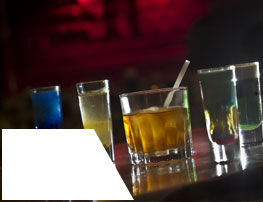
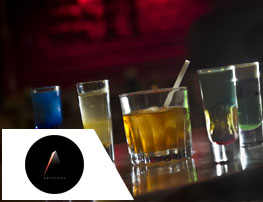
añadido betty, delorean e italianisimmo

Changed region(s): [[0.0913, 0.6535, 0.3346, 0.9802]]

diff --git a/cafes-y-postres-betty.php b/cafes-y-postres-betty.php
@@ -3,10 +3,10 @@
   <head>
     <meta charset="utf-8">
     <meta http-equiv="X-UA-Compatible" content="IE=edge">
-    <title>Menus and Places | Antros Delorean 5 en Chihuahua</title>
+    <title>Menus and Places | Cafés y Postres Betty Cooker en Chihuahua</title>
 
-    <meta name="description" content=".">
-    <meta name="keywords" content="">
+    <meta name="description" content="Betty Cooker es una cocina económica que ha dado servicio a muchos chihuahuenses desde 1991. Se caracteriza por el buen servicio que damos">
+    <meta name="keywords" content="Cafés y postres en chihuahua, Lugares en chihuahua, betty cooker, betty cooker chihuahua, cocina económica, enchiladas, milanesas, sabor de hogar, servicio a domicilio">
     <?php include('modules/head.php'); ?>
   </head>
   <body>
@@ -21,7 +21,7 @@
           <a href="../"><span class="glyphicon glyphicon-circle-arrow-left back">  </span></a>
         </div>
         <div class="col-md-4">
-          <div class="titulo"><h1> <img src="img/icono-tit.png" > Delorean 5 <img src="img/icono-tit.png" > </h1></div>
+          <div class="titulo"><h1> <img src="img/icono-tit.png"> Betty Cooker <img src="img/icono-tit.png" > </h1></div>
         </div>
         <div class="col-md-4">
           <?php include('modules/iconos.php'); ?>
@@ -33,14 +33,14 @@
         <div class="lines"> <img src="img/lines.png" class="img-responsive" ></div>
           <div class="row"> 
             <div class="col-md-12">
-              <img src="img/antros/delorean/delorean.jpg" class="img-responsive" alt="Antro Delorean 5 Chihuahua">
+              <img src="img/cafes-y-postres/betty/betty.jpg" class="img-responsive" alt="Cafetería Betty Cooker Chihuahua">
             </div> <br><br>
         </div> 
       </div> 
       <div class="container">
         <div class="row">
           <div class="col-md-12">
-            <img src="img/antros/delorean/logo.jpg" alt="Logotipo Delorean 5">
+            <img src="img/cafes-y-postres/betty/logo.jpg" alt="Logotipo Betty Cooker">
           </div>
         </div>
       </div>
@@ -48,16 +48,16 @@
         <div class="row">
           <div class="col-md-7 text-rest">
             <h4></h4>
-            <p><span class="titulo-rest"></span> Delorean está en el corazón de esta ciudad; silencioso por fuera, ruidoso por dentro. Al pasar por su peculiar entrada se descubre el diseño innovador y diferente que lleva los sentidos a otro nivel. la música alternativa, moderna y lejos de lo comercial ofrece una noche única. Un concepto interesante con una decoración ecléctica y una barra amplia para servir sus bebidas preparadas exóticamente.</p>
+            <p><span class="titulo-rest"></span> Betty Cooker es una cocina económica que ha dado servicio a muchos chihuahuenses desde 1991. Se caracteriza por el buen servicio que damos, las enchiladas y milanesas, todo con un sabor de hogar para aquellas personas que por falta de tiempo no puedan hacer comida para su hogar o no llevan comida para su trabajo. Cuentan con una gran ventaja para el comensal, que es el servicio a domicilio. Despreocúpate sobre qué comer hoy.</p>
 
-            <p>Delorean is a special spot that hides in the middle of the city. Silent from the outside, noise on the inside. The modern and electronic music, far from commercial, is what makes it different and definitely worth the visit. Decorated in an eclectic way, with a long bar to serve the exotic drinks, this unique place is good option for a good night out.</p>
+            <p>Betty Cooker it's a delicious home-cooked restaurant who have been preparing meals in town since 1991. It's known for their great service, along with the enchiladas and milanesas prepared with the homemade taste for everyone who can't cook at home. Do not worry about what to eat today; they've got home-delivery service.</p>
 
           </div>
           <div class="col-md-5 text-info-1">
             <div class="col-md-6"> <br>
                 <address>
-                <p><span class="info-rest">Teléfono:</span> 614 131.2374 <br><br>
-                   <span class="info-rest">Dirección: </span>Calle 17 No. 5 Col. Centro   <br> Chihuahua, México. <br><br>
+                <p><span class="info-rest">Teléfono:</span> 614 415.0898 <br><br>
+                   <span class="info-rest">Dirección: </span>Ankara No. 2012 Col. Mirador   <br> Chihuahua, México. <br><br>
                    <span class="info-rest">Ubicación:</span>
                    <a href="#"  data-toggle="modal" data-target="#myModal"> Ver ubicación </a>
                     <!-- Modal -->
@@ -81,17 +81,14 @@
               </div>
               <div class="col-md-6 text-info"> <br>
                 <p>
+                  <span class="info-rest">Horario: </span><br>
+                    L - V: 11am a 4pm <br>
+                    S: 11am a 2pm<br>  <br>
 
-                    <span class="info-rest">Ver Menu:</span> <a href="#">Próximamente</a>
-                </p> 
+                    <span class="info-rest">Ver Menu:</span> <a href="#">Próximamente</a> 
               </div>
               <div class="col-md-12">
-                <a href="#" class="element2"  data-toggle="tooltip" data-placement="top" title="Bar"><img src="img/iconos/2.png" alt="bar"></a>
-                <a href="#" class="element3"  data-toggle="tooltip" data-placement="top" title="TV"><img src="img/iconos/3.png" alt="tv"></a>
-                <a href="#" class="element4"  data-toggle="tooltip" data-placement="top" title="Área de fumar"><img src="img/iconos/4.png" alt="area de fumar"></a>
                 <a href="#" class="element6"  data-toggle="tooltip" data-placement="top" title="Estacionamiento"><img src="img/iconos/6.png" alt="estacionamiento"></a>
-                <a href="#" class="element8"  data-toggle="tooltip" data-placement="top" title="Eventos privados"><img src="img/iconos/8.png" alt="eventos privados"></a>
-                <a href="#" class="element10"  data-toggle="tooltip" data-placement="top" title="Reservaciones"><img src="img/iconos/10.png" alt="reservaciones"></a>
               </div>
             </div> 
           </div> <br>

diff --git a/restaurantes-italianisimmo.php b/restaurantes-italianisimmo.php
@@ -5,8 +5,8 @@
     <meta http-equiv="X-UA-Compatible" content="IE=edge">
     <title>Menus and Places | Restaurantes Italianissimmo en Chihuahua</title>
 
-    <meta name="description" content="Conoce algunos de los mejores Restaurantes en Chihuahua, excelentes lugares y platillos que disfrutaras.">
-    <meta name="keywords" content="Restaurantes en chihuahua, restauratnes de chihuahua, comida en chihuahua, revista de restaurantes, quiero comer en chihuahua">
+    <meta name="description" content="Italianisimmo en este restaurante podemos encontrar las deliciosas ensaladas del Chef y Molla Tuscana Dell">
+    <meta name="keywords" content="Restaurantes en chihuahua, Italianisimmo, Italianisimmo chihuahua, ensaladas, ensalada del chef, ensalada molla tuscana dell, lasagna, lasagna di camarone, pasta, pasta fettuccine, pizzas, salsas, cocina italiana, tiramisú">
     <?php include('modules/head.php'); ?>
   </head>
   <body>
@@ -21,7 +21,7 @@
           <a href="../"><span class="glyphicon glyphicon-circle-arrow-left back">  </span></a>
         </div>
         <div class="col-md-4">
-          <div class="titulo"><h1> <img src="img/icono-tit.png" > Italianismo <img src="img/icono-tit.png" > </h1></div>
+          <div class="titulo"><h1> <img src="img/icono-tit.png" > Italianisimmo <img src="img/icono-tit.png" > </h1></div>
         </div>
         <div class="col-md-4">
           <?php include('modules/iconos.php'); ?>
@@ -48,9 +48,9 @@
         <div class="row">
           <div class="col-md-7 text-rest">
             <h4></h4>
-            <p><span class="titulo-rest"></span> Lorem ipsum dolor sit amet, consectecto in, abusto nobis nam eligendi quibusdam voluptatum dololuta maxime deserunt.</p>
+            <p><span class="titulo-rest"></span> Italianisimmo en este restaurante podemos encontrar las deliciosas ensaladas del Chef y Molla Tuscana Dell; como plato principal, la Lasagna  Di Camarone, o la tradicional pasta Fettuccine. Sin duda una de sus especialidades favoritas son sus Pizzas tradicionales con exquisitos ingredientes y salsas típicas de la cocina italiana. No podemos terminar una deliciosa comida sin el toque dulce con el mejor Tiramisú de la ciudad. Disfruta ésta y todas tus ocasiones especiales en Italianisimmo.</p>
 
-            <p>Lorem ipsum dolor sit amet, consectecto in, abusto nobis nam eligendi quibusdam voluptatum dololuta maxime deserunt.</p>
+            <p>Italianisimmo in this Italian restaurant you would find their delicious salads like the Insalata Molla Tuscana Dell and the Insalata del Chef. As a main course the Lasagna Di Camarone or the traditional Fettuccine. Certainly one of their favorite specialties is the traditional Pizza with delicious sauces and typical ingredients of Italian cuisine. For a great end with the sweetest touch, try the best Tiramisu in town. Enjoy this and all your special occasions in Italianisimmo.</p>
 
           </div>
           <div class="col-md-5 text-info-1">

diff --git a/cafes-y-postres.php b/cafes-y-postres.php
@@ -44,8 +44,8 @@
               <div class="info"><h4>EL ELEFANTE DE LA BASTILLA</h4><p>Elefante de la Bastilla es una pequeña...</p></div>
             </div>
             <div class="col-md-4 col-sm-6">
-              <a href="restaurantes-akari.php"><img src="img/restaurantes/prueba.jpg" class="img-responsive" alt="Cafés y Postres Betty Cookie Chihuahua"></a>
-              <div class="info"><h4>BETTY COOKIE</h4><p>Lorem ipsum dolor sit lectus, ratione ipsum invelis, reiciendis consequatur iste dolorum tempora dicta.</p></div>
+              <a href="cafes-y-postres-betty.php"><img src="img/cafes-y-postres/betty/thumb.jpg" class="img-responsive" alt="Cafés y Postres Betty Cookie Chihuahua"></a>
+              <div class="info"><h4>BETTY COOKER</h4><p>Betty Cooker es una cocina económica que ha dado servicio a muchos chihuahuenses desde 1991...</p></div>
             </div>
           </div>
           <div class="">

diff --git a/restaurantes-en-chihuahua.php b/restaurantes-en-chihuahua.php
@@ -78,7 +78,7 @@
           <div class="">
             <div class="col-md-4 col-sm-6">
               <a href="restaurantes-italianisimmo.php"><img src="img/restaurantes/italianisimmo/thumb.jpg" class="img-responsive" alt="Restaurante Italianisimmo Chihuahua"></a>
-              <div class="info"><h4>ITALIANISIMMO</h4><p>Lorem ipsum dolor sit amet, consectecto in, abusto nobis nam eligendi quibusdam voluptatum dololuta maxime deserunt.</p></div>
+              <div class="info"><h4>ITALIANISIMMO</h4><p>Italianisimmo en este restaurante podemos encontrar las deliciosas ensaladas del Chef y Molla Tuscana Dell...</p></div>
             </div>
             <div class="col-md-4 col-sm-6">
               <a href="restaurantes-lasierra.php"><img src="img/restaurantes/lasierra/thumb.jpg" class="img-responsive" alt="Restaurante Pizzería La Sierra Chihuahua"></a>

diff --git a/antros-chihuahua.php b/antros-chihuahua.php
@@ -45,7 +45,7 @@
             </div>
            <div class="col-md-4 col-sm-6">
               <a href="antros-delorean.php"><img src="img/antros/delorean/thumb.jpg" class="img-responsive" alt="Antro Delorean Chihuahua"></a>
-              <div class="info"><h4>DELOREAN</h4><p>Lorem ipsum dolor sit amet, consectetur adipisicing enemo commodi. Autem veritatis culpa rerum ea nesciunt.</p></div>
+              <div class="info"><h4>DELOREAN</h4><p>Delorean está en el corazón de esta ciudad; silencioso por fuera, ruidoso por dentro. Al pasar por su...</p></div>
             </div>
           </div>
       </div>
